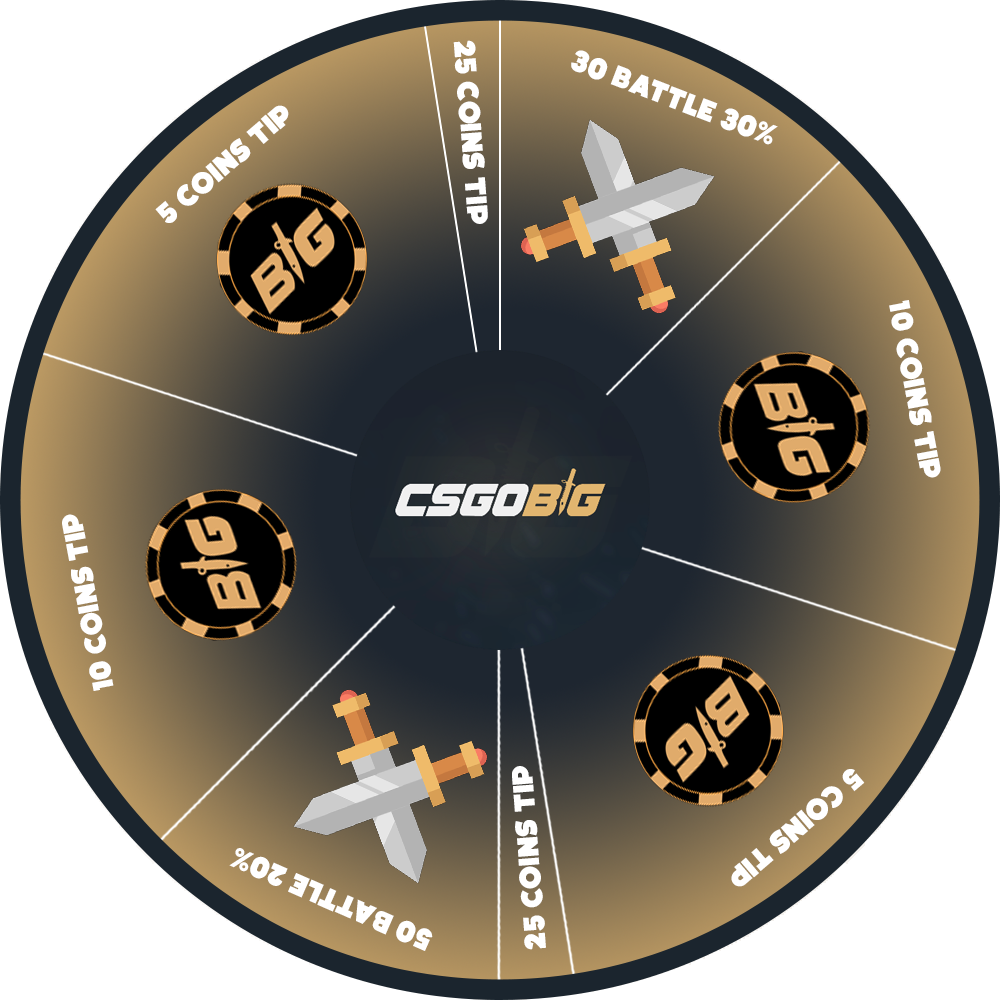
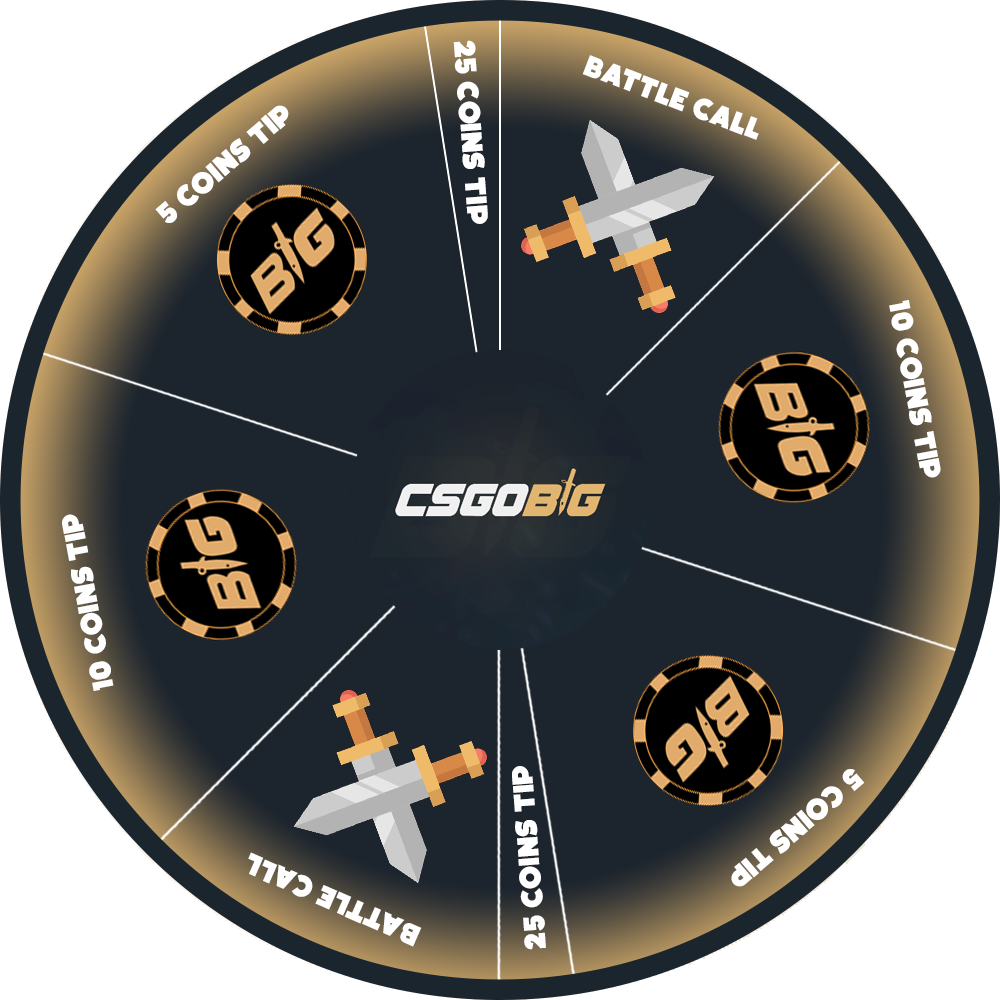
updates

diff --git a/src/scripts/script-selector.js b/src/scripts/script-selector.js
@@ -1,6 +1,12 @@
 import clashWheelImg from "../img/clash-wheel.png";
 import bigWheelImg from "../img/big-wheel.png";
 import rainWheelImg from "../img/rain-wheel.png";
+import clashMarker from "../img/CLASH-MARKER.png";
+import bigMarker from "../img/BIG-MARKER.png";
+import rainMarker from "../img/RAIN-MARKER.png";
+import clashButton from "../img/clash-button.png"
+import bigButton from "../img/big-button.png"
+import rainButton from "../img/rain-button.png"
 
 (function () {
     const wheel = document.querySelector('.wheel');
@@ -11,6 +17,8 @@ import rainWheelImg from "../img/rain-wheel.png";
     const wheel1Image = document.getElementById("wheel1-img");
     const wheel2Image = document.getElementById("wheel2-img");
     const wheel3Image = document.getElementById("wheel3-img");
+    const marker = document.querySelector('.marker');
+    const button = document.querySelector('.button');
 
     let deg = 0;
 
@@ -52,14 +60,32 @@ import rainWheelImg from "../img/rain-wheel.png";
     function setWheel(wheelId, wheelImage) {
         currentWheel = wheelId;
         wheel.src = wheelImage;
+        updateMarker(wheelId);
+        updateButton(wheelId);
     }
-
-    // Set the images for the wheel selectors
+    function updateMarker(wheelId) {
+        if (wheelId === 'wheel1') {
+            marker.src = clashMarker;
+        } else if (wheelId === 'wheel2') {
+            marker.src = bigMarker;
+        } else if (wheelId === 'wheel3') {
+            marker.src = rainMarker;
+        }
+    }
+    function updateButton(wheelId) {
+        if (wheelId === 'wheel1') {
+            button.src = clashButton;
+        } else if (wheelId === 'wheel2') {
+            button.src = bigButton;
+        } else if (wheelId === 'wheel3') {
+            button.src = rainButton;
+        }
+    }
+  
     wheel1Image.src = clashWheelImg;
     wheel2Image.src = bigWheelImg;
     wheel3Image.src = rainWheelImg;
 
-    // Click event listeners for each wheel
     wheel1Image.addEventListener('click', () => {
         setWheel('wheel1', clashWheelImg);
     });

diff --git a/src/styles/styles-selector.css b/src/styles/styles-selector.css
@@ -1,0 +1,107 @@
+body {
+    background-image: url('/src/img/backiground_site.png');
+    background-size: cover;
+    overflow: hidden;
+}
+#app {
+    width: 800px;
+    height: 800px;
+    top: 50%;
+    left: 50%;
+    transform: translate(-50%, -50%);
+    position: absolute;
+    z-index: 999;
+  }
+  
+  .marker {
+    position: absolute;
+    top: -10px;
+    width: 80px;
+    left: 360px;
+    z-index: 999;
+  }
+  
+  .wheel {
+    width: 100%;
+    height: 100%;
+  }
+  
+  .wheel2 {
+    width: 100%;
+    height: 100%;
+  }
+  
+  .hide {
+    display: none;
+  }
+  .button {
+    bottom: 20px;
+    width: 250px;
+    height: 80px;
+    cursor: pointer;
+    position: relative;
+    z-index: 999;
+  }
+  .button3 {
+  
+    width: 250px;
+    height: 80px;
+    cursor: pointer;
+    position: relative;
+    z-index: 999;
+  }
+  .btn-container {
+    display: flex;
+    flex-direction: row;
+    justify-content: space-evenly;
+    margin: 20px auto;
+  }
+  .button2 {
+    width: 250px;
+    margin: 40px auto;
+    cursor: pointer;
+    position: relative;
+    z-index: 999;
+  }
+  
+  .button:hover {
+    opacity: 0.8;
+  }
+  
+  .blur {
+    animation: blur 10s;
+  }
+  
+  @keyframes blur {
+    0% {
+      filter: blur(1.5px);
+    }
+    80% {
+      filter: blur(1.5px);
+    }
+    100% {
+      filter: blur(0px);
+    }
+  }
+  .message-container {
+    position: absolute;
+    top: 50%;
+    left: 50%;
+    transform: translate(-50%, -50%);
+    background-image: linear-gradient(to right,  #1c222d , #22262b);
+    padding: 50px;
+    border-radius: 10px;
+    text-align: center;
+    font-family: 'Dongle', sans-serif;
+    font-weight: 400;
+    font-size: 60px;
+    color: white;
+    z-index: 1000;
+    display: none;
+  }
+  .close-button {
+    background-color: transparent;
+    border: none;
+    color: white;
+    font-size: 24px;
+  }

diff --git a/src/call-wheels.html b/src/call-wheels.html
@@ -8,7 +8,7 @@
     <link rel="preconnect" href="https://fonts.googleapis.com">
     <link rel="preconnect" href="https://fonts.gstatic.com" crossorigin>
     <link href="https://fonts.googleapis.com/css2?family=Dongle:wght@700&display=swap" rel="stylesheet">
-    <link rel="stylesheet" type="text/css" href="styles/styles1.css" />
+    <link rel="stylesheet" type="text/css" href="styles/styles-selector.css" />
     <style>
       #latest-rolls-container {
         z-index: 999;
@@ -77,11 +77,11 @@
       <img id="wheel3-img" src="img/rain.jpg" alt="Rain" class="wheel-image" />
       </div>
     <div id="app">
-      <img class="marker" src="img/marker.png" />
+      <img class="marker" src="img/CLASH-MARKER.png" />
       <img class="wheel" src="img/clash-wheel.png" />
       <img class="wheel2 hide" src="img/wheel2.png" />
       <div class="btn-container">
-        <img class="button" src="img/button.png" />
+        <img class="button" src="img/clash-button.png" />
       </div>
       <img class="hide button2" src="img/button2.png" />
       <div class="message-container" id="message-container"></div>
